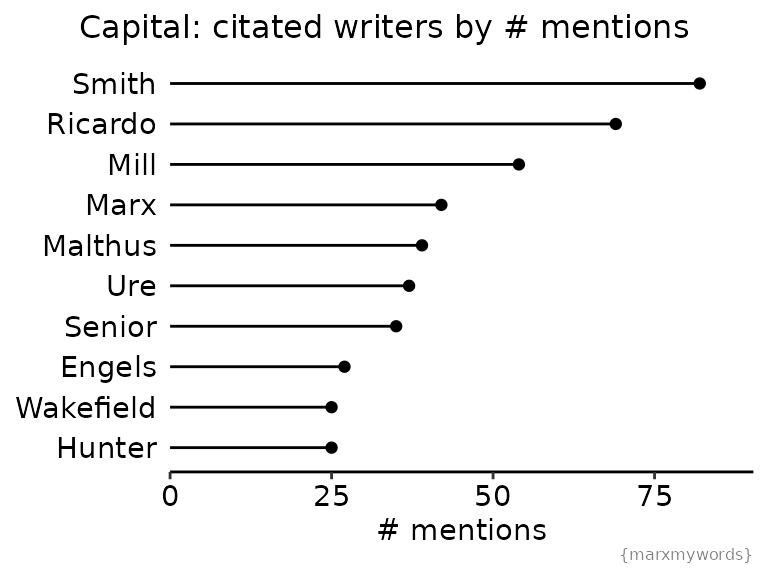
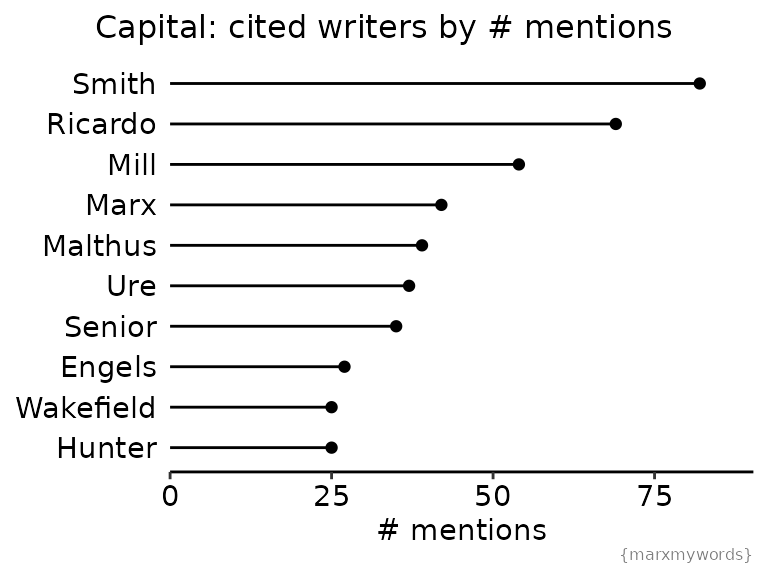
Built site for marxmywords: 0.0.0.1@2a81394

Changed region(s): [[0.0938, 0.0, 0.9062, 0.0938]]

diff --git a/articles/capital_footnotes.html b/articles/capital_footnotes.html
@@ -197,7 +197,7 @@ img {
     label.padding <span class="op">=</span> <span class="fu">unit</span><span class="op">(</span><span class="fl">0</span>, <span class="st">"cm"</span><span class="op">)</span>,
     hjust <span class="op">=</span> <span class="fl">0</span>,
     nudge_x <span class="op">=</span> <span class="fl">1</span>,
-    size <span class="op">=</span> <span class="fl">3</span>
+    size <span class="op">=</span> <span class="fl">3.5</span>
   <span class="op">)</span> <span class="op">+</span>
   <span class="fu">scale_color_manual</span><span class="op">(</span>values <span class="op">=</span> <span class="fu"><a href="https://rdrr.io/r/base/c.html" class="external-link">c</a></span><span class="op">(</span><span class="st">"red"</span>, <span class="fu"><a href="https://rdrr.io/r/base/rep.html" class="external-link">rep</a></span><span class="op">(</span><span class="st">"black"</span>, <span class="fl">5</span><span class="op">)</span><span class="op">)</span><span class="op">)</span> <span class="op">+</span>
   <span class="fu">scale_x_continuous</span><span class="op">(</span>expand <span class="op">=</span> <span class="fu"><a href="https://rdrr.io/r/base/c.html" class="external-link">c</a></span><span class="op">(</span><span class="fl">0</span>, <span class="fl">0</span>, <span class="fl">0.1</span>, <span class="fl">0.1</span><span class="op">)</span><span class="op">)</span> <span class="op">+</span>
@@ -391,12 +391,12 @@ img {
   <span class="op">)</span> <span class="op">+</span>
   <span class="fu">xlab</span><span class="op">(</span><span class="st">"# mentions"</span><span class="op">)</span> <span class="op">+</span>
   <span class="fu">labs</span><span class="op">(</span>
-    title <span class="op">=</span> <span class="st">"Capital: citated writers by # mentions"</span>,
+    title <span class="op">=</span> <span class="st">"Capital: cited writers by # mentions"</span>,
     caption <span class="op">=</span> <span class="st">"{marxmywords}"</span>
   <span class="op">)</span></code></pre></div>
 <p><img src="capital_footnotes_files/figure-html/unnamed-chunk-9-1.png" width="384" style="display: block; margin: auto;"> (Note that I didn’t distinguish between father and son James Mill and John Stuart Mill. Some footnotes were added by Engels and signed with his full name, and so would be counted in here, however others are signed F.E., and would not be included in this count.)</p>
 <p>Most of these aren’t so surprising. Smith, Ricardo, the Mills, Malthus, and Senior all wrote political economy works that Marx was directly critiquing and/or building on. It also makes sense than Marx would cite his earlier works (mostly <em>Zur Kritik der Politischen Oekonomie</em> and <em>Misère de la Philosophie</em>), and those of his frequent co-author Engels.</p>
-<p>A few heavily cited people stood out to me. Politician <a href="https://en.wikipedia.org/wiki/Edward_Gibbon_Wakefield" class="external-link">Wakefield</a> ranks in the top ten, although nearly all of his mentions (20/25) occur in a single, relatively short chapter. This chapter (chapter 33) discusses primitive accumulation and colonialism. Dr. Julian Hunter was commissioned to investigate public health issues affecting the working class, and his saddening findings are cited mainly in Chapter 25 (20/25 mentions). <a href="https://en.wikipedia.org/wiki/Andrew_Ure" class="external-link">Dr Andrew Ure</a> wrote on the manufacturing industry in England and is cited primarily in Chapter 15 (18/37).</p>
+<p>A few heavily cited people stood out to me. Dr. Julian Hunter was commissioned to investigate public health issues affecting the working class, and his saddening findings are cited mainly in Chapter 25 (20/25 mentions). Politician <a href="https://en.wikipedia.org/wiki/Edward_Gibbon_Wakefield" class="external-link">Wakefield</a> ranks in the top ten despite nearly all of his mentions (20/25) occuring in a single, relatively short chapter. This chapter (chapter 33) discusses primitive accumulation and colonialism, and Wakefield had a scheme of systematic colonization named after him. <a href="https://en.wikipedia.org/wiki/Andrew_Ure" class="external-link">Dr Andrew Ure</a> wrote on the manufacturing industry in England and is cited primarily in Chapter 15 (18/37).</p>
 </div>
 </div>
   </main><aside class="col-md-3"><nav id="toc"><h2>On this page</h2>
